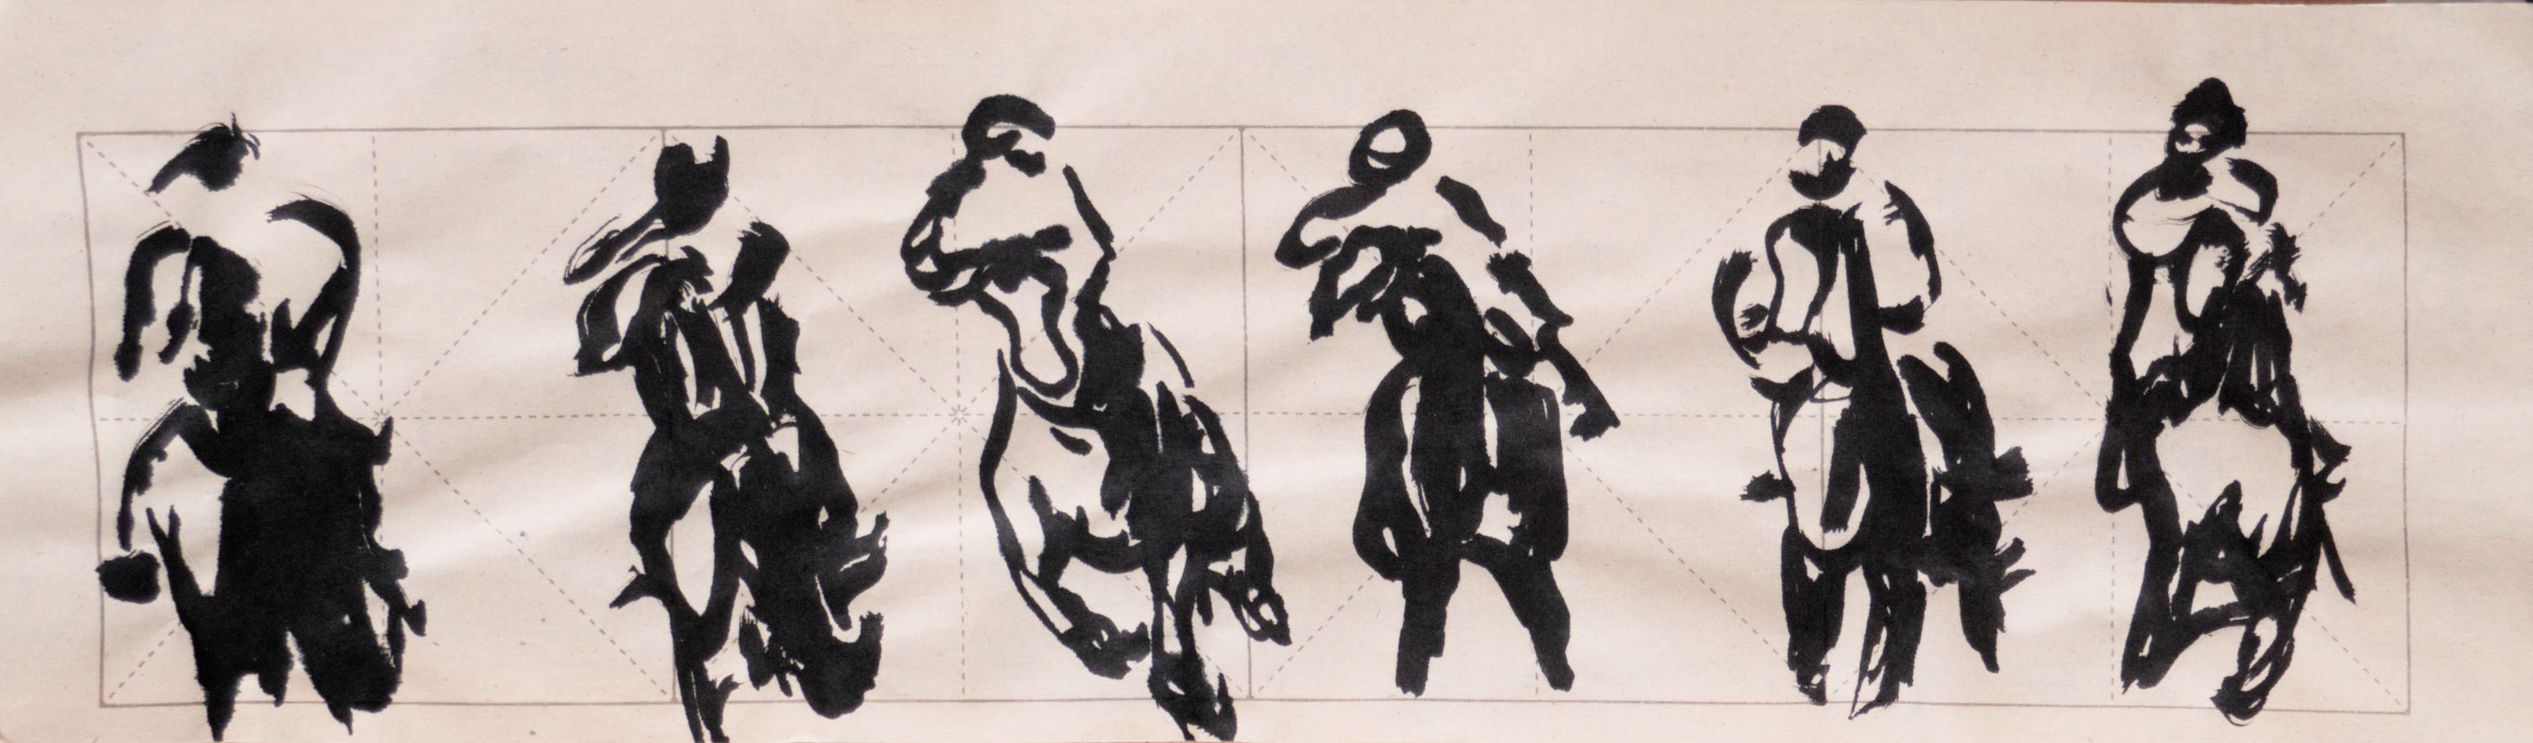
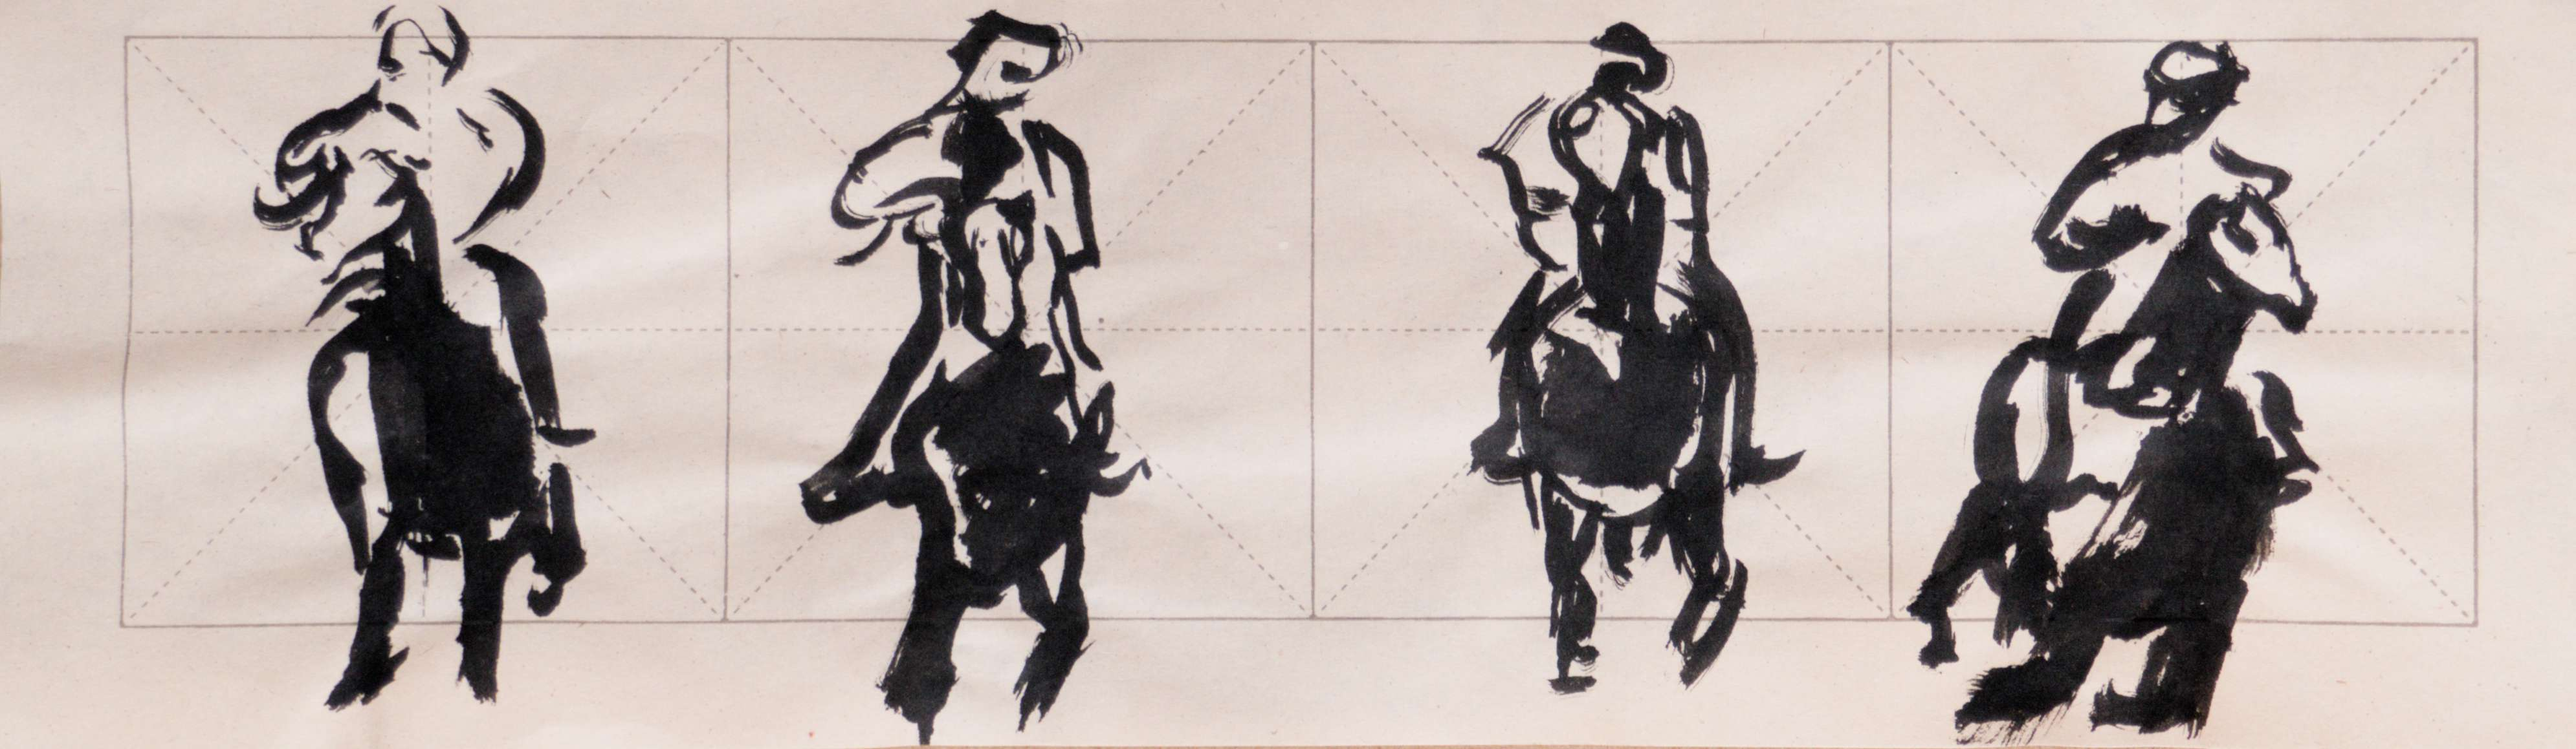
adjustment to display info

diff --git a/paintings.html b/paintings.html
@@ -194,15 +194,15 @@
         </div>
         <div class="gallery-item" onclick="openSlideshow(2)">
             <img src="paintings/thumbs/alarm_2026.jpg" data-full="paintings/full/alarm_2026.jpg" alt="Alarm">
-            <div class="item-title">Alarm<span class="work-year">2026</span></div>
+            <div class="item-title">Alarm</div>
         </div>
         <div class="gallery-item" onclick="openSlideshow(3)">
             <img src="paintings/thumbs/apprehension_2026.jpg" data-full="paintings/full/apprehension_2026.jpg" alt="Apprehension">
-            <div class="item-title">Apprehension<span class="work-year">2026</span></div>
+            <div class="item-title">Apprehension</div>
         </div>
         <div class="gallery-item" onclick="openSlideshow(4)">
             <img src="paintings/thumbs/cherub_2026.jpg" data-full="paintings/full/cherub_2026.jpg" alt="Cherub">
-            <div class="item-title">Cherub<span class="work-year">2026</span></div>
+            <div class="item-title">Cherub</div>
         </div>
     </div>
 
